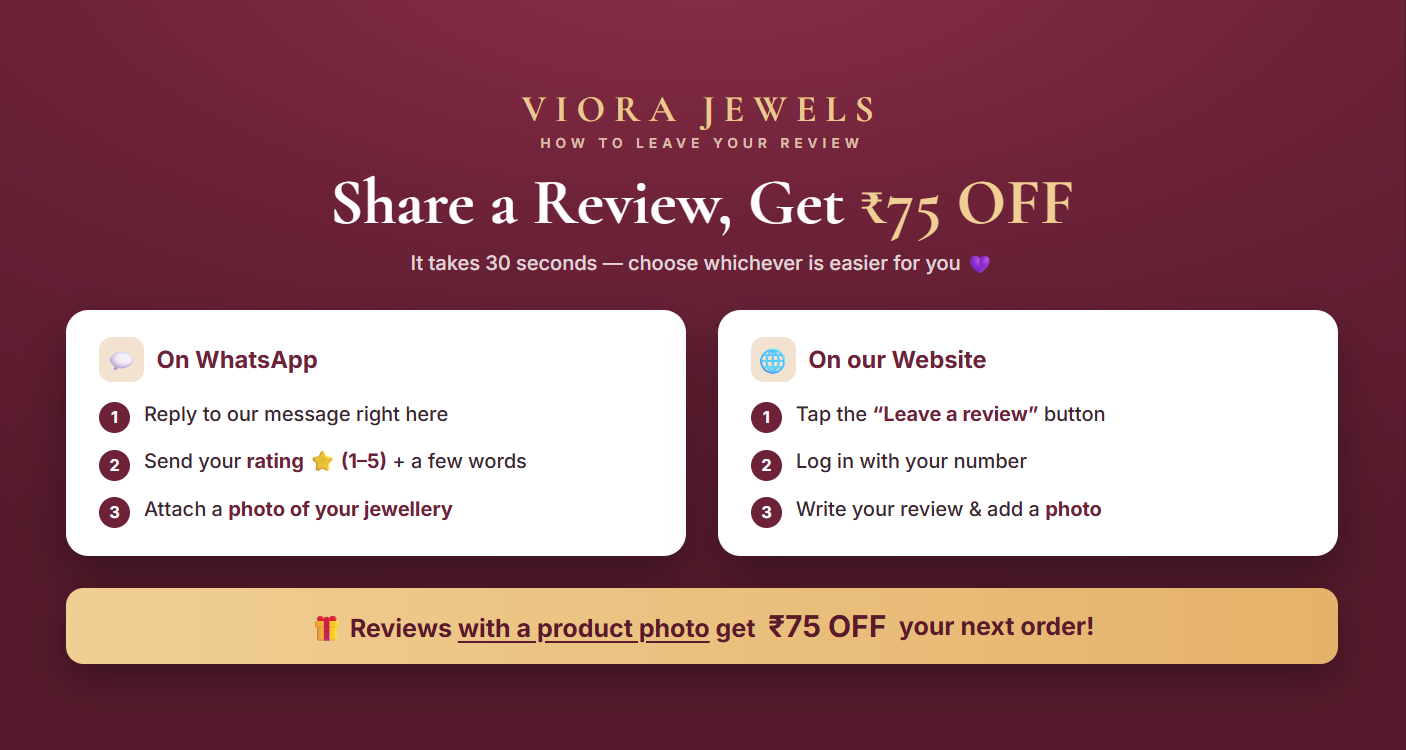
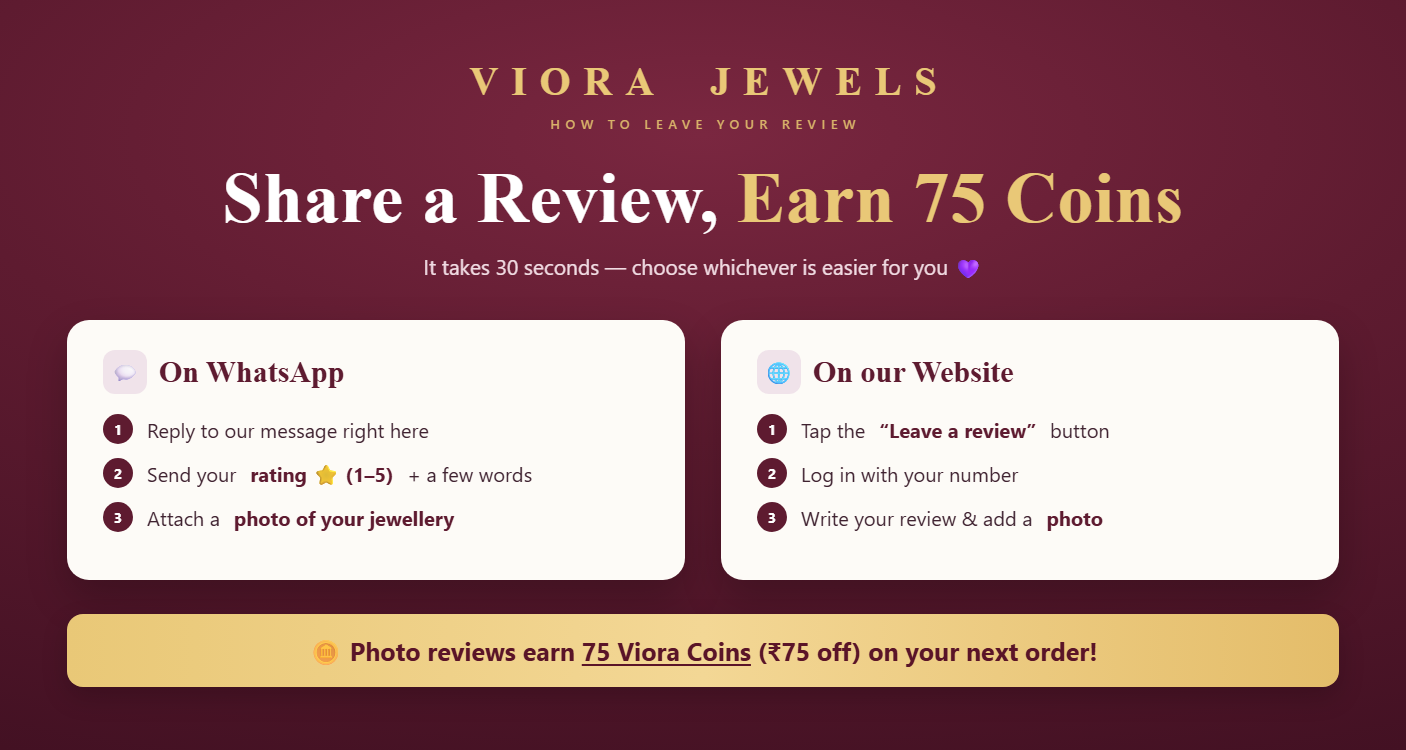
Review template + image: Viora Coins wording (was ₹75 voucher)
The photo-review loop now rewards 75 Viora Coins (= ₹75 off, used at
checkout and stacks with the ladder coupon), not a one-off auto-applying
voucher. Update the customer-facing copy to match:

- review_request_photo_v1 body/footer -> "earn 75 Viora Coins" + "use at
  checkout", dropping the inaccurate "voucher applies automatically" line.
- review-instructions.png header card -> "Share a Review, Earn 75 Coins"
  + "Photo reviews earn 75 Viora Coins (₹75 off)".
- create-review-photo-template route gains &edit=1 to edit the existing
  APPROVED template in place at Meta (same name/language -> PENDING re-review),
  so the send path needs no env change.

Still gated off (REVIEW_CAPTURE_ENABLED / COINS_ENABLED) until the coins
checkout path goes live.

diff --git a/src/app/api/admin/create-review-photo-template/route.ts b/src/app/api/admin/create-review-photo-template/route.ts
@@ -1,15 +1,21 @@
-// TEMP admin route — creates the "review_request_photo_v1" MARKETING template on
-// the WABA and submits it to Meta for review. Hit it ONCE, then delete this file.
+// TEMP admin route — creates OR edits the "review_request_photo_v1" MARKETING
+// template on the WABA and submits it to Meta for review. Delete after use.
 //
 //   GET /api/admin/create-review-photo-template?key=<INBOX_SECRET>
 //     &imageUrl=<optional sample header image>   (default: the review-instructions PNG)
 //     &dryRun=1                                   (build the payload, don't call Meta)
+//     &check=1                                    (read back the Meta review status)
+//     &edit=1                                     (EDIT the existing approved template
+//                                                  in place — same name/language, goes
+//                                                  back to PENDING re-review)
 //
 // WHY: the current review template (review_request_util_v1) is header-less and
 // has no reward. This MARKETING template drives the new WhatsApp-native review
 // loop: the IMAGE header carries the "how to review" instructions, the body asks
-// for a reply with stars + a photo and promises ₹75 OFF the next order, and the
-// URL button (suffix = product slug) is the website path for non-logged-in users.
+// for a reply with stars + a photo and promises 75 Viora Coins (= ₹75 off the
+// next order, used at checkout — coins STACK with the spend-ladder coupon, unlike
+// a one-off voucher), and the URL button (suffix = product slug) is the website
+// path for non-logged-in users.
 //
 // Variables line up with notify.sendReviewRequest with NO param changes:
 //   body {{1}} = customer name, {{2}} = order id ; button url {{1}} = product slug.
@@ -43,17 +49,17 @@ const LANGUAGE = "en"; // MUST match templates.js LANG (see notify.sendReviewReq
 // WhatsApp-native review instructions; the website button handles non-logged-in.
 const BODY_TEXT =
   "Hi {{1}}, we hope you're loving your Viora jewellery from order #{{2}}! ✨\n\n" +
-  "*Leave a review and get FLAT ₹75 OFF your next order* 🎁\n\n" +
+  "*Leave a photo review and earn 75 Viora Coins* 🪙 (₹75 off your next order)\n\n" +
   "It's quick — just *reply to this message* with:\n" +
   "⭐ A rating out of 5\n" +
   "📸 A photo of your piece\n" +
   "✍ A few words about it\n\n" +
-  "Your ₹75 voucher then applies automatically on your next order. " +
+  "Your 75 Viora Coins land in your account — use them at checkout on your next order. " +
   "Prefer our website? Tap the button below to review there instead.\n\n" +
   "Thank you for choosing Viora 💛";
 
 // Meta rejects footers containing newlines OR emojis (error 2388073), so plain.
-const FOOTER_TEXT = "Viora Jewels • reply with a photo review for ₹75 off";
+const FOOTER_TEXT = "Viora Jewels • photo review = 75 Viora Coins (₹75 off)";
 
 const BUTTONS = [
   {
@@ -139,26 +145,45 @@ export async function GET(req: NextRequest) {
 
   const imageUrl = req.nextUrl.searchParams.get("imageUrl") || DEFAULT_IMAGE;
   const dryRun = req.nextUrl.searchParams.get("dryRun") === "1";
+  const edit = req.nextUrl.searchParams.get("edit") === "1";
 
-  // Build the create payload (header_handle filled in after upload, unless dry run).
-  const makePayload = (headerHandle: string | null) => ({
-    name: TEMPLATE_NAME,
-    language: LANGUAGE,
-    category: "MARKETING",
-    components: [
-      {
-        type: "HEADER",
-        format: "IMAGE",
-        example: { header_handle: [headerHandle || "<uploaded-at-submit-time>"] },
-      },
-      { type: "BODY", text: BODY_TEXT, example: { body_text: [["Priya", "10231"]] } },
-      { type: "FOOTER", text: FOOTER_TEXT },
-      { type: "BUTTONS", buttons: BUTTONS },
-    ],
-  });
+  // The components shared by create and edit. On EDIT, Meta forbids name/language
+  // (immutable) in the body, so we only send { category, components }.
+  const components = (headerHandle: string | null) => [
+    {
+      type: "HEADER",
+      format: "IMAGE",
+      example: { header_handle: [headerHandle || "<uploaded-at-submit-time>"] },
+    },
+    { type: "BODY", text: BODY_TEXT, example: { body_text: [["Priya", "10231"]] } },
+    { type: "FOOTER", text: FOOTER_TEXT },
+    { type: "BUTTONS", buttons: BUTTONS },
+  ];
+  const makePayload = (headerHandle: string | null) =>
+    edit
+      ? { category: "MARKETING", components: components(headerHandle) }
+      : { name: TEMPLATE_NAME, language: LANGUAGE, category: "MARKETING", components: components(headerHandle) };
 
   if (dryRun) {
-    return NextResponse.json({ ok: true, dryRun: true, appId: APP_ID, imageUrl, payload: makePayload(null) });
+    return NextResponse.json({ ok: true, dryRun: true, edit, appId: APP_ID, imageUrl, payload: makePayload(null) });
+  }
+
+  // On EDIT, resolve the existing template's id first (Meta edits by id, not name).
+  let templateId = "";
+  if (edit) {
+    const lurl =
+      `${GRAPH}/${version}/${businessId}/message_templates` +
+      `?name=${TEMPLATE_NAME}&access_token=${encodeURIComponent(token)}`;
+    const lres = await fetch(lurl);
+    const ldata = await lres.json().catch(() => ({}));
+    const match = (ldata?.data || []).find((t: any) => t.name === TEMPLATE_NAME && t.language === LANGUAGE);
+    if (!lres.ok || !match?.id) {
+      return NextResponse.json(
+        { ok: false, stage: "lookup-template", status: lres.status, error: ldata?.error || "template not found", found: ldata?.data || [] },
+        { status: 502 }
+      );
+    }
+    templateId = String(match.id);
   }
 
   // 1) upload the sample header image -> handle.
@@ -170,9 +195,12 @@ export async function GET(req: NextRequest) {
     );
   }
 
-  // 2) create the template.
+  // 2) create a new template, or edit the existing one in place.
   const payload = makePayload(uploaded.handle);
-  const res = await fetch(`${GRAPH}/${version}/${businessId}/message_templates`, {
+  const endpoint = edit
+    ? `${GRAPH}/${version}/${templateId}`
+    : `${GRAPH}/${version}/${businessId}/message_templates`;
+  const res = await fetch(endpoint, {
     method: "POST",
     headers: { Authorization: `Bearer ${token}`, "Content-Type": "application/json" },
     body: JSON.stringify(payload),
@@ -180,15 +208,18 @@ export async function GET(req: NextRequest) {
   const data = await res.json().catch(() => ({}));
   if (!res.ok) {
     return NextResponse.json(
-      { ok: false, stage: "create-template", status: res.status, error: data?.error || data, sentPayload: payload },
+      { ok: false, stage: edit ? "edit-template" : "create-template", status: res.status, error: data?.error || data, sentPayload: payload },
       { status: 502 }
     );
   }
 
   return NextResponse.json({
     ok: true,
-    message: "Submitted to Meta for review. Check WhatsApp Manager → Message templates.",
-    template: { name: TEMPLATE_NAME, language: LANGUAGE, status: data?.status, id: data?.id, category: data?.category },
+    message: edit
+      ? "Edit submitted to Meta for re-review. The template is now PENDING until approved."
+      : "Submitted to Meta for review. Check WhatsApp Manager → Message templates.",
+    action: edit ? "edit" : "create",
+    template: { name: TEMPLATE_NAME, language: LANGUAGE, id: edit ? templateId : data?.id, status: data?.status, category: data?.category },
     sampleImage: { url: imageUrl, size: uploaded.size },
     raw: data,
   });
